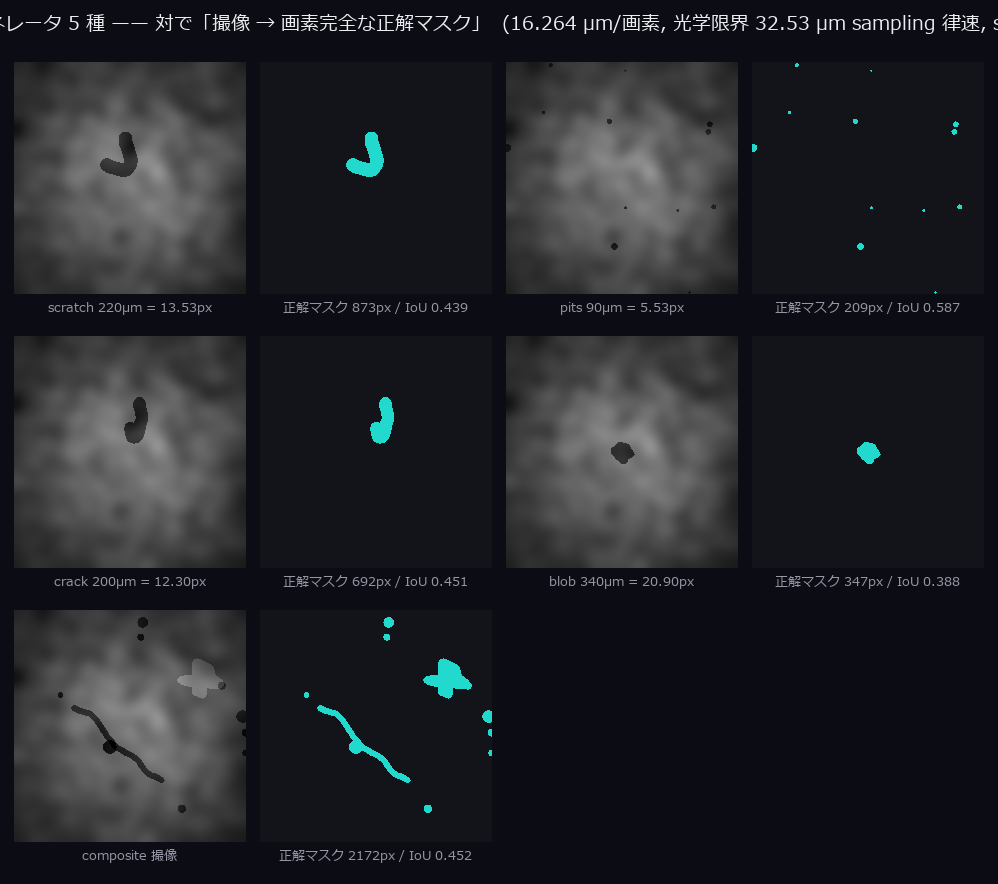
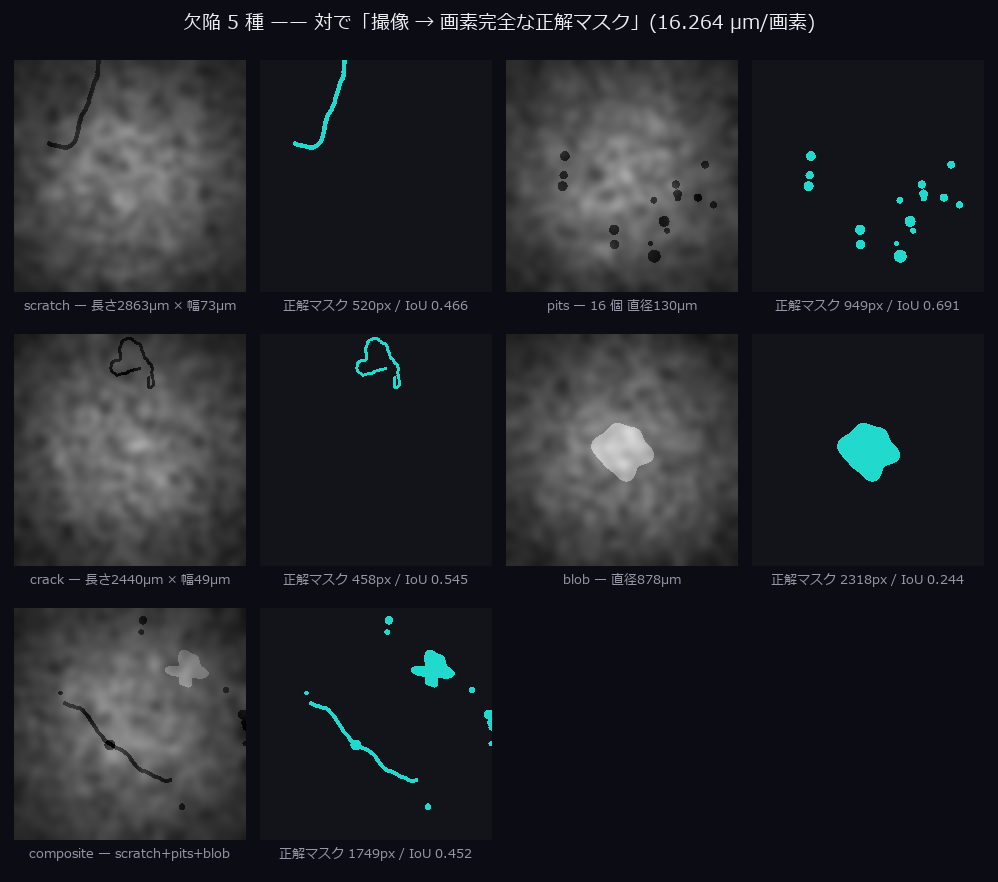
auto: gen_wing1d_gallery.py 編集前 (2026-09-02 02:11)

diff --git a/tools/gen_wing1d_gallery.py b/tools/gen_wing1d_gallery.py
@@ -55,8 +55,13 @@ import funct1d as F              # noqa: E402  1-D 関数代数(HALCON funct_1d)
 import imagedraw                 # noqa: E402  Fullseye の描画 op(唯一の描画経路)
 import interferometry as I       # noqa: E402  コヒーレンス走査(包絡線の切断)
 import measure                   # noqa: E402  2D 測定線
-import video                     # noqa: E402  GIF 書き出し
 import volprobe                  # noqa: E402  3D プローブ
+
+# 束ね方の共通部品(著者提供・自己テスト済み)。
+#   contact_sheet = 並べて比べる / flipbook = 同寸で工程が進む / 原寸 1 枚 = 主張そのもの
+sys.path.insert(0, _HERE_TOOLS := os.path.dirname(os.path.abspath(__file__)))
+from exhibit_tile import (contact_sheet, flipbook, markdown,   # noqa: E402
+                          markdown_animation, save_animation, save_exhibit)
 
 _HERE = os.path.dirname(os.path.abspath(__file__))
 _ROOT = os.path.dirname(_HERE)

diff --git a/tools/gen_wingopt_gallery.py b/tools/gen_wingopt_gallery.py
@@ -2575,6 +2575,8 @@ def main(argv=None) -> int:
             frames = out["frames"]
             if out["fps"] is None:
                 info2 = _save_png(frames[0], name, lambda _m: None)
+            elif out["fps"] == "flipbook":
+                info2 = _save_flipbook(frames, name, lambda _m: None)
             else:
                 info2 = _save_gif(frames, name, out["fps"], out["thumb_index"],
                                   lambda _m: None)

diff --git a/docs/articles/exhibits/wingopt.md b/docs/articles/exhibits/wingopt.md
@@ -5,13 +5,21 @@
 再生成: `py -3.11 tools/gen_wingopt_gallery.py`(展示単位なら `--exhibits <name,...>`)。
 図に焼かれた数字はすべて `optics` / `visiondesign` / `defectgen` / `visionlab` を実際に呼んだ実測値で、決定的です(`--verify` で SHA-256 一致を確認できます)。
 
+## 設計から判定までの一本道
+
+![設計から判定までの一本道](https://raw.githubusercontent.com/furuse-kazufumi/fullseye/master/docs/articles/assets/media/wingopt_pipeline_flow.gif)
+
+*↑ **設計から判定までの一本道** ―― 「設計 → 限界 → 仮想の部品 → 撮像 → 検査 → 判定」の 6 工程を、1 コマずつ止めて読めるコマ送りにしました。系が決まると **16.264 µm/画素**が確定し、そこから光学限界 **32.53 µm**(sampling 律速)が出て、120 µm の傷は 7.38 画素になり、最後に IoU **0.3421** で 検出と判定される —— **正解マスクは撮像でぼけても動かない**ので、この採点が成立します(判定は `marginal`)。 使用 op: `system_geometry`, `resolving_power`, `system_feasibility`, `surface_texture`, `defect_scratch`, `composite_defect`, `defect_stats`, `image_formation`, `draw_polyline`, `draw_circle`。*
+
+<small>静止フレームでも読めます(静止サムネ: `https://raw.githubusercontent.com/furuse-kazufumi/fullseye/master/docs/articles/assets/thumbs/wingopt_pipeline_flow_thumb.jpg`)。6 フレーム / 700 ms/コマ / 940×514 px / 0.19 MB。</small>
+
 ## 欠陥ジェネレータの見本帳
 
 [![欠陥ジェネレータの見本帳](https://raw.githubusercontent.com/furuse-kazufumi/fullseye/master/docs/articles/assets/wingopt_defect_atlas_thumb.jpg)](https://raw.githubusercontent.com/furuse-kazufumi/fullseye/master/docs/articles/assets/wingopt_defect_atlas.png)
 
-*↑ **欠陥ジェネレータの見本帳** ―― 欠陥 5 種(scratch / pits / crack / blob / composite)を同じ系(**16.264 µm/画素**)で撮り、左列が撮れる画像、右列が**画素完全な正解マスク**です。マスクは撮像前の幾何から作るので、撮像でぼけても正解は動かず、**注釈作業が存在しません** —— 各行のマスク面積は実測で 873 / 209 / 692 / 347 / 2172 画素、光学限界は 32.53 µm(sampling 律速)です。 使用 op: `defect_scratch`, `defect_pits`, `defect_crack`, `defect_blob`, `surface_texture`, `composite_defect`, `defect_stats`, `image_formation`。*
+*↑ **欠陥ジェネレータの見本帳** ―― 欠陥 5 種(scratch / pits / crack / blob / composite)を同じ系(**16.264 µm/画素**)で撮り、左列が撮れる画像、右列が**画素完全な正解マスク**です。マスクは撮像前の幾何から作るので、撮像でぼけても正解は動かず、**注釈作業が存在しません** —— 各行のマスク面積は実測で 520 / 949 / 458 / 2318 / 1749 画素、光学限界は 32.53 µm(sampling 律速)です。 使用 op: `defect_scratch`, `defect_pits`, `defect_crack`, `defect_blob`, `surface_texture`, `composite_defect`, `defect_stats`, `image_formation`。*
 
-<small>クリックで原寸 (998×884 px / 88 kB)。</small>
+<small>クリックで原寸 (998×882 px / 129 kB)。</small>
 
 ---
 
@@ -19,4 +27,5 @@
 
 | 展示 | 形式 | 画素 | フレーム | サイズ | SHA-256(先頭 16) |
 |---|---|---|---|---|---|
-| 欠陥ジェネレータの見本帳 | PNG | 998×884 | 1 | 88 kB | `57fecc928dd0d2b4` |
+| 設計から判定までの一本道 | GIF | 940×514 | 6 | 192 kB | `1c0db4d086a5b9b5` |
+| 欠陥ジェネレータの見本帳 | PNG | 998×882 | 1 | 129 kB | `a98b659a6601c8cd` |
